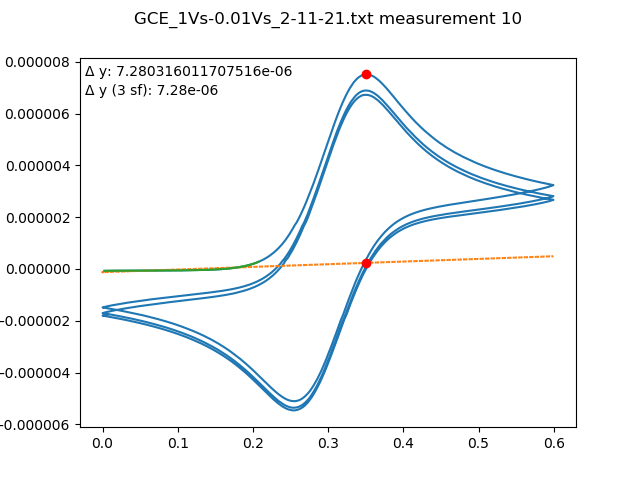
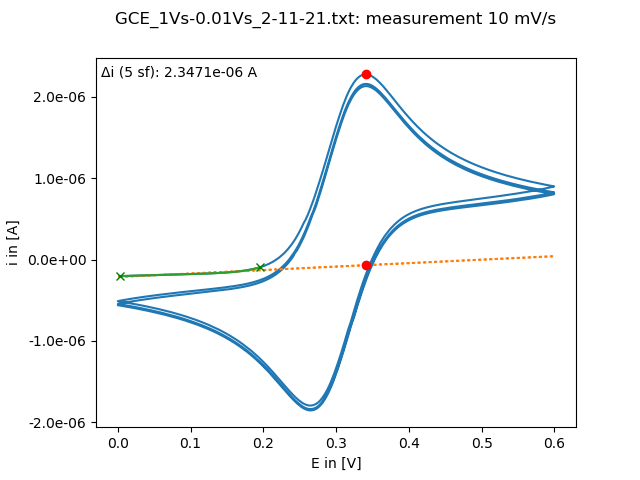
ad axis labeling and do some further adjustments

diff --git a/Evaluation.py b/Evaluation.py
@@ -1,38 +1,63 @@
+#Evaluation Day XX - DD.MM.YYYY - Time: HH:MM
+#Conditions: Ambient or nitrogen Atmosphere
+#Chemicals: Solution X / Redox Probe Y with Concentration Z
+#Working Electrode: GCE, Flat ITO, Porous ITO or Ultra-Micro-Electrode
+
+#Import packages
 import numpy as np
 import matplotlib.pyplot as plt
+import matplotlib.ticker as mtick
 import pylab
 import os
 import math
 
 ################ settings ################
 # filename without ending
-filename = 'GCE_1Vs-0.01Vs_2-11-21'
-# amount of datapoints to determine linear regression function
-n = 85
+filename = 'GCE_1Vs-0.01Vs_compensation-900Ohm'
+# startposition of datapoints
+a = 0
+# endposition of datapoints to determine linear regression function
+n = 80
+# sweep rate patterns (srp):
+srp = ([1000, 900, 800, 700, 600, 500, 400, 300, 200, 100], 
+       [1000, 900, 800, 700, 600, 500, 400, 300, 200, 100, 50, 30, 20, 10],
+       [1000, 900, 800, 700, 600, 500, 400, 300, 200, 150, 100, 80, 60, 50, 30, 20, 10, 5, 3, 2, 1],
+       [1000], 
+       [#insert here your own scan rate pattern
+       ]
+      )
+#select scan rate line 1, 2, 3, 4, etc.
+srl = 2
 # significant digits of result
-significant_digits = 3
+significant_digits = 5
 ##########################################
 
 
 # load data from file
 data = np.loadtxt(filename + '.txt', delimiter='\t', skiprows=1, dtype = np.double)
 
-# take n number of data from the beginning
-n = 85
-regressiondata = data[0:n,:]
+#use datapoints for baseline
+regressiondata = data[a:n,:]
 
 # determine number of colums
 l = len(data[1,:]) - 1
 
 # some directory stuff
-dirname = os.path.dirname(__file__)
+dirname = os.path.dirname('____file______')
 evaldir = os.path.join(dirname, filename + '_evaluation')
 if not os.path.exists(evaldir):
     os.makedirs(evaldir)
+    
+    
+#index for sweep rate
+r= srp[srl-1]
+print("i,p in Ampere from Sweep rates "+str(r[0])+ "mV/s to " + str(r[-1])+"mV/s:")
 
+p=0
 for i in range(1,l+1):
     # find regression function parameters
     m,b = pylab.polyfit(regressiondata[:,0], regressiondata[:,i], 1)
+    x_a = m
     # find maximum value
     y_max = np.max(data[:,i])
     x_max = data[data[:,i]==y_max, 0]
@@ -43,13 +68,26 @@ for i in range(1,l+1):
     # compute difference
     diff = float(y_max - y_lin)
     x = data[:,0]
-    plt.figure
-    plt.plot(x, data[:,i], x, m*x+b, ':', regressiondata[:,0], regressiondata[:,i], x_max, y_lin, 'ro', x_max, y_max, 'ro')
+    fig = plt.figure()
+    ax = fig.add_subplot(111)
+    plt.plot(x, data[:,i], x, m*x+b, ':', regressiondata[:,0], regressiondata[:,i], x_max, y_lin, 'ro',x_max, y_max, 'ro', regressiondata[0,0], regressiondata[0,i],'gx',regressiondata[-1,0], regressiondata[-1,i], 'gx')
     left, right = plt.xlim()
     bottom, top = plt.ylim()
-    plt.text(left + (0.01 * (right - left)), bottom + (0.95 * (top-bottom)), "\u0394 y: " + str(diff))
     rounded_number =  round(diff, significant_digits - int(math.floor(math.log10(abs(diff)))) - 1)
-    plt.text(left + (0.01 * (right - left)), bottom + (0.9 * (top-bottom)), "\u0394 y (" + str(significant_digits) + " sf): " + str(rounded_number))
-    plt.title(filename + ".txt measurement " + str(i), y=1.07)
-    plt.savefig(os.path.join(evaldir, filename + "_meas" + str(i) + '.png'))
+    plt.text(left + (0.01 * (right - left)), bottom + (0.95 * (top-bottom)), "\u0394i (" + str(significant_digits) + " sf): " + str(rounded_number) + " A")
+    plt.title(filename + ".txt: measurement " + str(r[p]) + " mV/s", y=1.07)
+    plt.xlabel('E in [V]')
+    plt.ylabel('i in [A]')
+    plt.subplots_adjust(left=0.15)
+    ax.yaxis.set_major_formatter(mtick.FormatStrFormatter('%.1e'))
+    plt.savefig(os.path.join(evaldir, filename + "_meas" + str(r[p]) + '.png'))
     plt.clf()
+    
+    #Output delta i,p
+    #print(str(r[p]) + "=" + str(rounded_number))
+    print(str(rounded_number))
+    
+    #Output delta i,p/v^(0.5)
+    #print(str(rounded_number/(r[p]*0.001)**(0.5)))
+    p+=1
+

diff --git a/README.md b/README.md
@@ -1,5 +1,10 @@
 # voltammetry_meas_eval
 
-This code was created to help researchers in the field of bioelectrical development to automate their measurement evaluations.
+This code was created to help researchers in the field of Electrobiotechnology  to automate their measurement evaluations. The measurements are about **cyclic voltammetry**. 
 
-![example evaluation plot](https://github.com/bielseb/voltammetry_meas_eval/blob/main/GCE_1Vs-0.01Vs_2-11-21_meas1.png?raw=true)
+### About
+The task is to is to find the difference in current between the linear beginning of the data and the maximum. Thus, the approach is to fit the first values with a linear function and afterwards compute the difference to the maximum at the point of the maximum.
+For detailed information about the research work write to benedikt.piller@tum.de.
+
+
+![example evaluation plot](https://github.com/bielseb/voltammetry_meas_eval/blob/main/GCE_1Vs-0.01Vs_2-11-21_meas10.png?raw=true)
